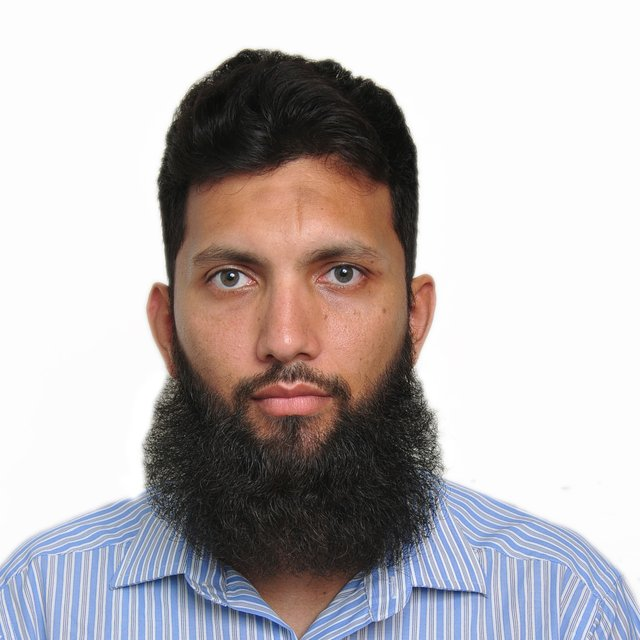
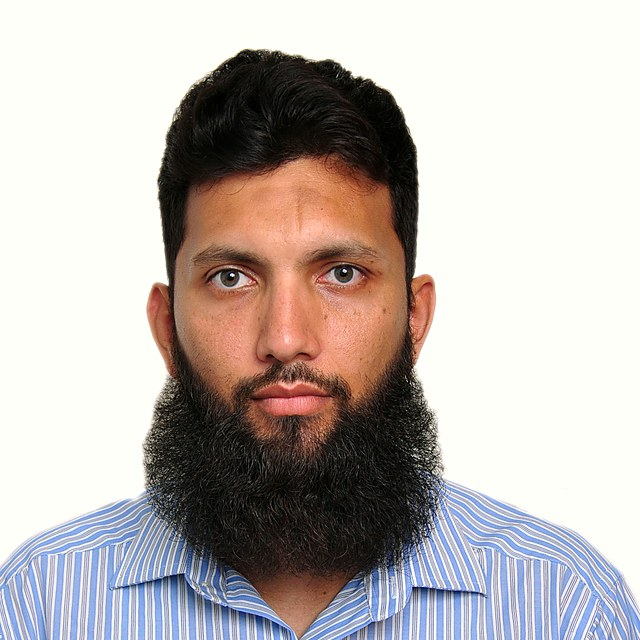
Show title as Lecturer (Assistant Professor); retouch portrait

diff --git a/index.html b/index.html
@@ -4,7 +4,7 @@
 <meta charset="UTF-8">
 <meta name="viewport" content="width=device-width, initial-scale=1.0">
 <title>Dr. Abdul Manan Khan</title>
-<meta name="description" content="Dr. Abdul Manan Khan, Lecturer in Electronics and Robotics at the University of West London. Research in trustworthy AI, autonomous systems, UAVs, soft robotics and rehabilitation robotics.">
+<meta name="description" content="Dr. Abdul Manan Khan, Lecturer (Assistant Professor) in Electronics and Robotics at the University of West London. Research in trustworthy AI, autonomous systems, UAVs, soft robotics and rehabilitation robotics.">
 <link rel="preconnect" href="https://fonts.googleapis.com">
 <link rel="preconnect" href="https://fonts.gstatic.com" crossorigin>
 <link href="https://fonts.googleapis.com/css2?family=Fraunces:opsz,wght@9..144,500;9..144,600;9..144,700&family=Inter:wght@400;500;600&display=swap" rel="stylesheet">
@@ -166,7 +166,7 @@ footer { text-align: center; color: var(--muted); font-size: .85rem; padding: 32
       <div class="eyebrow">Robotics · Control · Trustworthy AI</div>
       <h1>Dr. Abdul Manan Khan</h1>
       <div class="creds">PhD, FHEA, IEEE Senior Member</div>
-      <p class="role">Lecturer in Electronics and Robotics, School of Computing and Engineering, <strong>University of West London</strong>, UK.</p>
+      <p class="role">Lecturer (Assistant Professor) in Electronics and Robotics, School of Computing and Engineering, <strong>University of West London</strong>, UK.</p>
       <div class="actions">
         <a class="btn primary" href="mailto:amk.617@outlook.com"><svg viewBox="0 0 24 24"><rect x="3" y="5" width="18" height="14" rx="2"/><path d="m3 7 9 6 9-6"/></svg>Email</a>
         <a class="btn" href="https://scholar.google.com/citations?user=akoaYEEAAAAJ&amp;hl=en" target="_blank" rel="noopener"><svg viewBox="0 0 24 24"><path d="M2 9l10-5 10 5-10 5z"/><path d="M6 11v5c0 1.5 3 3 6 3s6-1.5 6-3v-5"/></svg>Google Scholar</a>
@@ -189,7 +189,7 @@ footer { text-align: center; color: var(--muted); font-size: .85rem; padding: 32
 <section id="about"><div class="wrap">
   <div class="head"><span class="num">01</span><h2>About</h2></div>
   <div class="lead">
-    <p>I am a Lecturer in Electronics and Robotics at the University of West London, where I lead five modules across Levels 3 to 7, act as a Personal Academic Tutor, and supervise a PhD candidate. I am a Fellow of the Higher Education Academy and hold a Postgraduate Certificate in Academic Practice (2025). Before joining UWL, I was a Research Associate in Trustworthy AI for Autonomous Systems at Imperial College London and a Senior Research Associate at the Bristol Robotics Laboratory, University of Bristol.</p>
+    <p>I am a Lecturer (Assistant Professor) in Electronics and Robotics at the University of West London, where I lead five modules across Levels 3 to 7, act as a Personal Academic Tutor, and supervise a PhD candidate. I am a Fellow of the Higher Education Academy and hold a Postgraduate Certificate in Academic Practice (2025). Before joining UWL, I was a Research Associate in Trustworthy AI for Autonomous Systems at Imperial College London and a Senior Research Associate at the Bristol Robotics Laboratory, University of Bristol.</p>
     <p>I have more than twelve years of university teaching experience across Pakistan, South Korea and the United Kingdom. As an Assistant Professor at the University of Engineering and Technology Taxila, I secured the National Research Program for Universities grant, a first within the faculty, and was the main editor of the Self-Assessment Report that earned the department's degree Washington Accord recognition. I also launched the M.Sc. Mechatronics Engineering programme at the Chakwal sub-campus and managed final year projects for the B.Sc. programme.</p>
     <p>I have taught at UET Taxila, Hanyang University and Hanbat National University in South Korea, and at Brunel University London, Imperial College London and the University of West London in the UK. I have also mentored students at these universities and at the University of Bristol. I hold UKRI Global Talent endorsement.</p>
   </div>
@@ -211,7 +211,7 @@ footer { text-align: center; color: var(--muted); font-size: .85rem; padding: 32
 <section id="experience"><div class="wrap">
   <div class="head"><span class="num">03</span><h2>Experience</h2></div>
   <ul class="timeline">
-    <li class="now"><div class="when">Sep 2024 – Present</div><h3>Lecturer in Electronics and Robotics</h3><div class="org">School of Computing and Engineering, University of West London, London, UK</div>
+    <li class="now"><div class="when">Sep 2024 – Present</div><h3>Lecturer (Assistant Professor) in Electronics and Robotics</h3><div class="org">School of Computing and Engineering, University of West London, London, UK</div>
       <ul><li>Module Leader for Sensors and Actuators and Automation and Control (Level 7), and Applied Engineering Project, Essential Technology and Control Systems Theory and Practice (Levels 3/6).</li>
       <li>Teaching across the Robotics and AI, Electronic Engineering and Mechanical Engineering programmes, with practical sessions in Python and MATLAB.</li>
       <li>Personal Academic Tutor, admissions interviewer and PhD supervisor; published 3 Q1 journal articles in 2024–2025.</li></ul></li>
